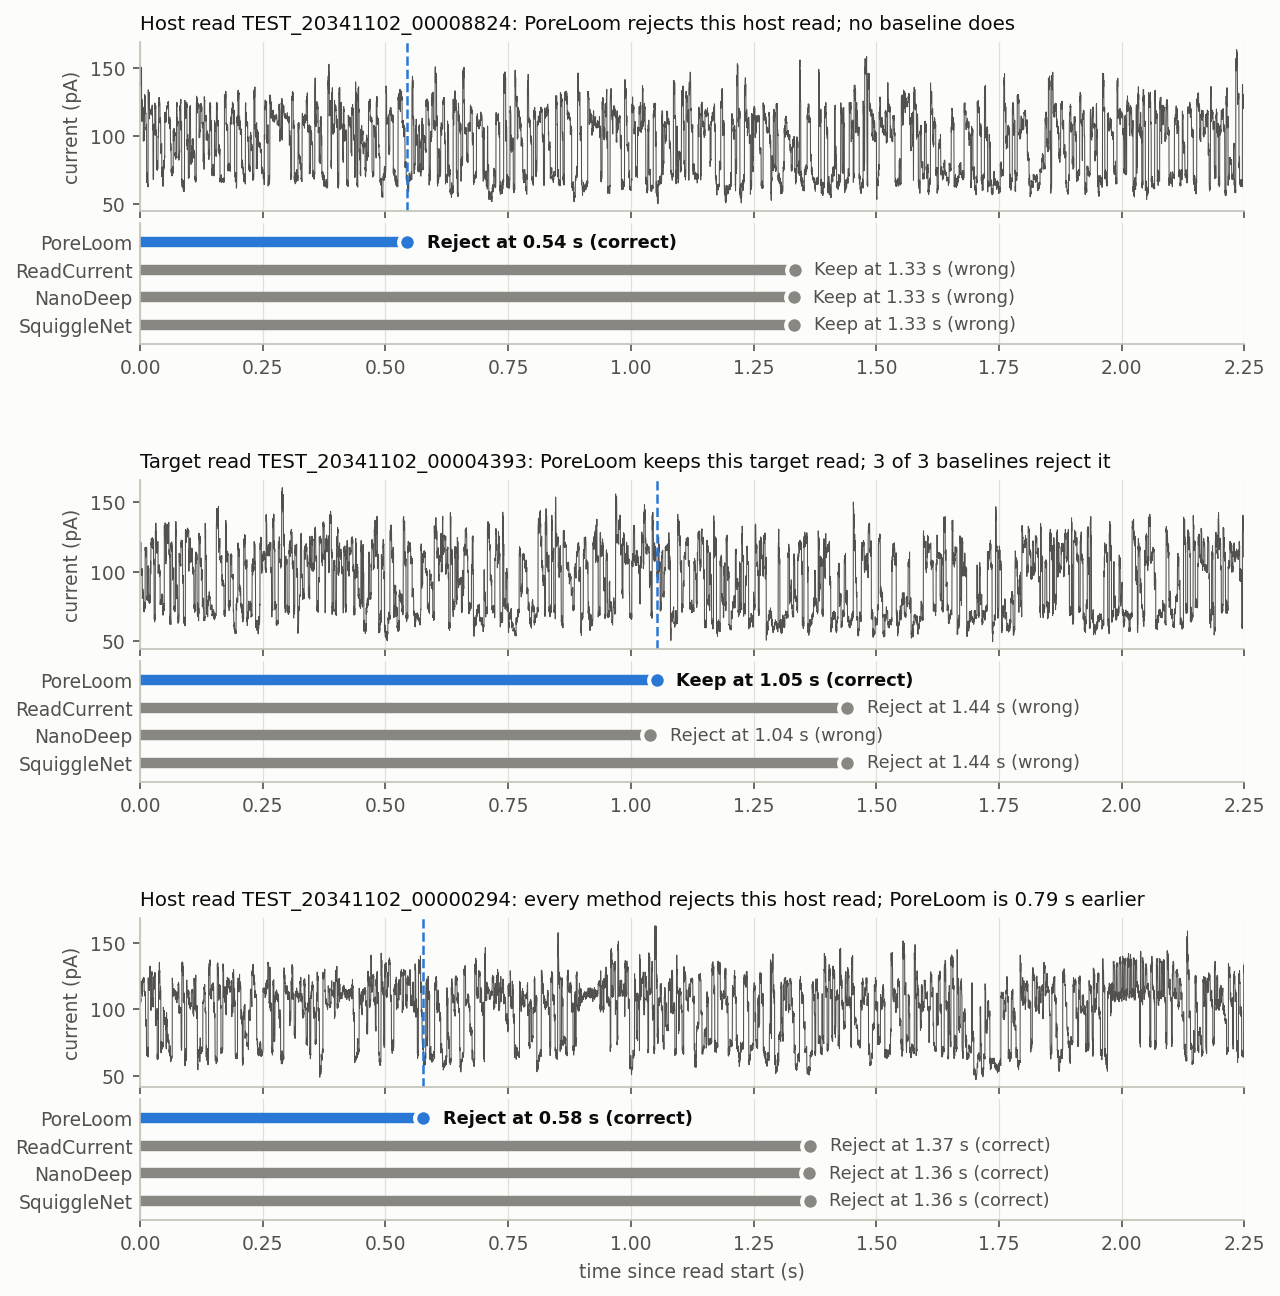
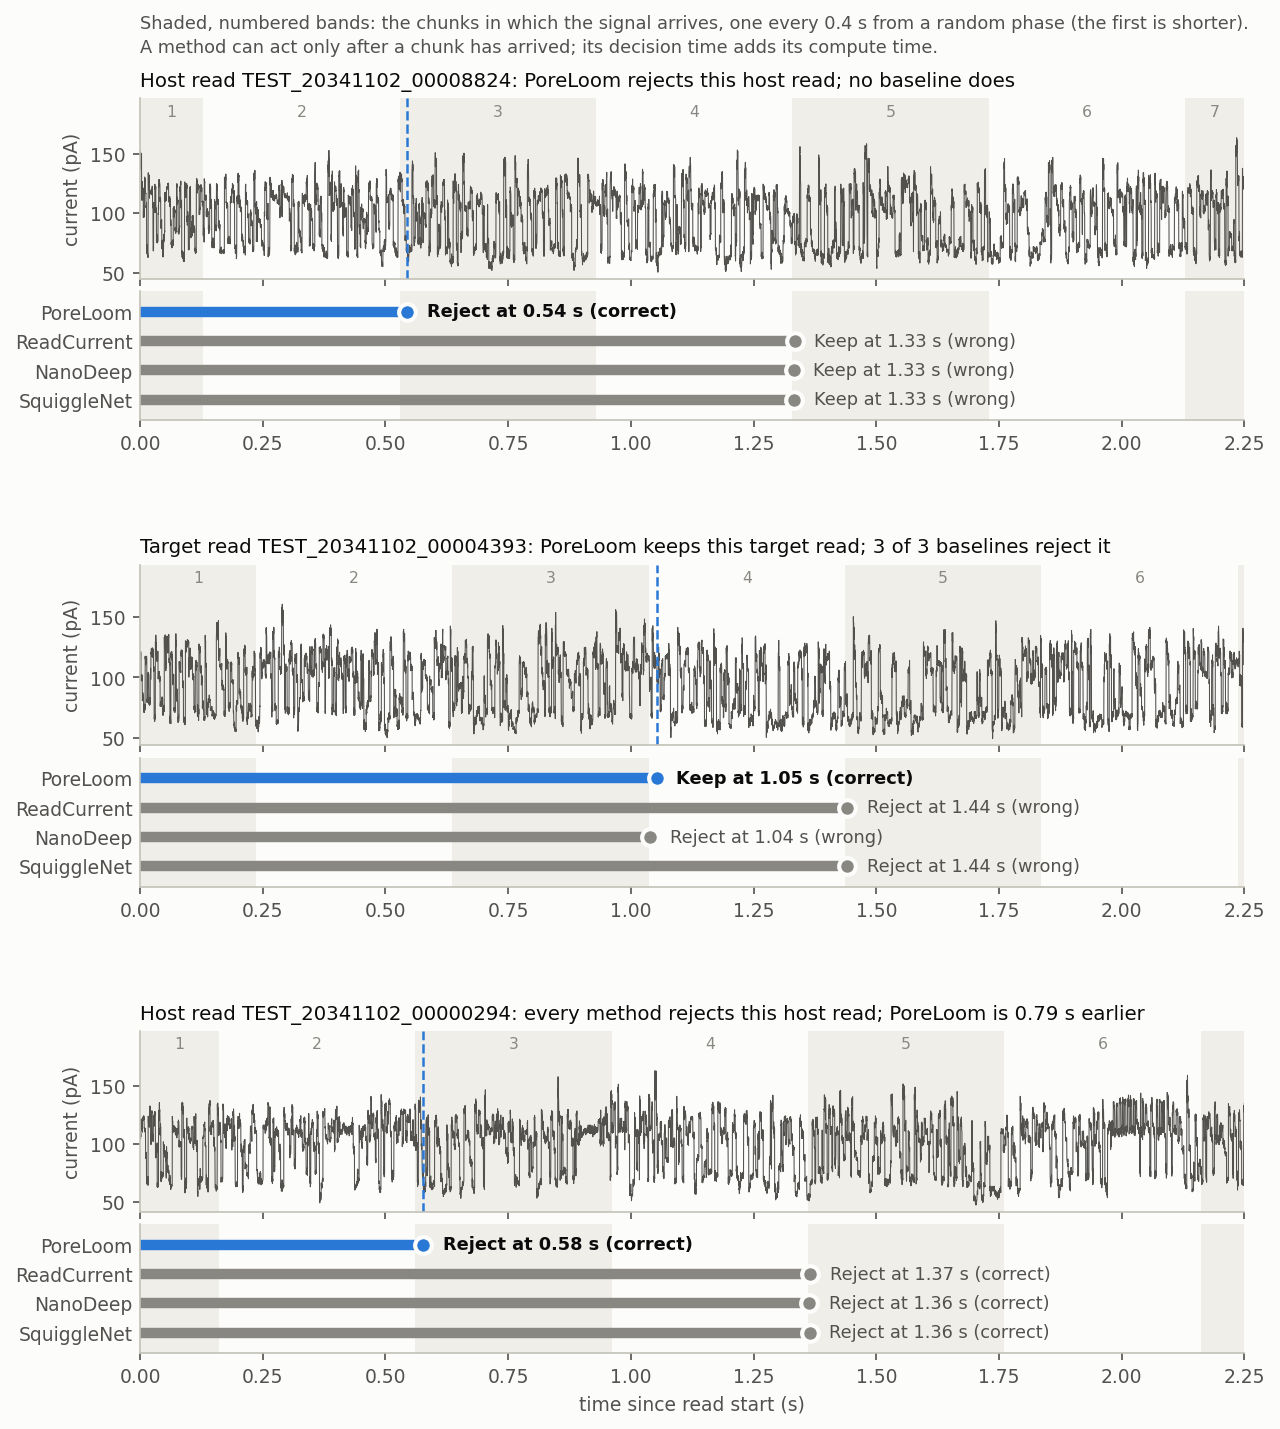
Mark the 0.4 s signal chunks in the example figure
Each example read now shows the chunks in which its signal arrives
(numbered bands from the read's replay phase), and the README explains
why NanoDeep can decide one chunk before ReadCurrent and SquiggleNet
(4000- versus 4500-sample window end).

diff --git a/example/run_example.py b/example/run_example.py
@@ -38,7 +38,8 @@ UPSTREAM = {   # third_party path: (repository, commit, sha256)
     'SquiggleNet/inference.py': ('welch-lab/SquiggleNet', 'fb7b206e05935de48895cdbd16a7c1df73515202',
[1 lines of base64/hex data omitted]
 }
-INK, INK2, MUTED, GRID, SURFACE, ACCENT = '#0b0b0b', '#52514e', '#898781', '#e1e0d9', '#fcfcfb', '#2a78d6'
+INK, INK2, MUTED, SURFACE, ACCENT = '#0b0b0b', '#52514e', '#898781', '#fcfcfb', '#2a78d6'
+BAND = '#efeee9'      # every other signal chunk
 
 
 def sha256(data):
@@ -156,7 +157,7 @@ def pick_examples(data, outcomes):
     return picks
 
 
-def plot(data, outcomes, picks, path):
+def plot(data, outcomes, picks, path, phase):
     import matplotlib
     matplotlib.use('Agg')
     import matplotlib.pyplot as plt
@@ -164,16 +165,27 @@ def plot(data, outcomes, picks, path):
                          'ytick.color': INK2, 'text.color': INK})
     end = data.adc.shape[1]/FS
     fig = plt.figure(figsize=(9.5, 3.4*len(picks)), facecolor=SURFACE)
-    outer = fig.add_gridspec(len(picks), 1, hspace=.45)
+    outer = fig.add_gridspec(len(picks), 1, hspace=.45, top=.93)
     for row, (i, title) in enumerate(picks):
         inner = outer[row].subgridspec(2, 1, height_ratios=[1.4, 1], hspace=.08)
         ax, lanes = fig.add_subplot(inner[0]), fig.add_subplot(inner[1])
+        # signal arrives in chunks ending at phase*0.4 s + k*0.4 s (the replay of every method); commands follow a chunk
+        ends = (phase[i] + np.arange(int(end/INTERVAL) + 2))*INTERVAL
+        edges = np.concatenate([[0.], ends[ends < end], [end]])
+        for k, (lo, hi) in enumerate(zip(edges[:-1], edges[1:])):
+            if k % 2 == 0:
+                for a in (ax, lanes):
+                    a.axvspan(lo, hi, color=BAND, lw=0, zorder=0)
+            if hi - lo > .1:
+                ax.text((lo + hi)/2, .97, str(k + 1), transform=ax.get_xaxis_transform(), ha='center', va='top',
+                        fontsize=7.5, color=MUTED)
         n = int(min(data.raw_length[i], data.adc.shape[1]))
         t = np.arange(n)/FS
         ax.plot(t, data.pa([i], 0, n)[0], color=INK2, lw=.5)
         if outcomes['poreloom']['command'][i]:          # where PoreLoom decided
             ax.axvline(float(outcomes['poreloom']['decision_seconds'][i]), color=ACCENT, lw=1.2, ls='--')
         ax.set_xlim(0, end); ax.set_ylabel('current (pA)')
+        low, high = ax.get_ylim(); ax.set_ylim(low, high + .22*(high - low))     # room for the chunk numbers
         ax.set_title(f'{"Target" if data.is_target[i] else "Host"} read {data.read_id[i]}: {title}', loc='left',
                      fontsize=9.5, color=INK)
         ax.tick_params(labelbottom=False)
@@ -195,10 +207,13 @@ def plot(data, outcomes, picks, path):
         lanes.set_ylim(-.7, len(METHODS) - .3); lanes.set_xlim(0, end)
         lanes.set_xlabel('time since read start (s)' if row == len(picks) - 1 else '')
         for a in (ax, lanes):
-            a.set_facecolor(SURFACE); a.grid(axis='x', color=GRID, lw=.6); a.set_axisbelow(True)
+            a.set_facecolor(SURFACE); a.set_axisbelow(True)
             for side in ('top', 'right'):
                 a.spines[side].set_visible(False)
         lanes.tick_params(axis='y', length=0)
+    fig.suptitle('Shaded, numbered bands: the chunks in which the signal arrives, one every 0.4 s from a random phase '
+                 '(the first is shorter).\nA method can act only after a chunk has arrived; its decision time adds '
+                 'its compute time.', x=.125, ha='left', va='top', y=.985, fontsize=8.5, color=INK2, linespacing=1.4)
     fig.savefig(path, dpi=150, bbox_inches='tight', facecolor=SURFACE)
     plt.close(fig)
 
@@ -250,7 +265,11 @@ def write_readme(path, results, paper, matches, picks, seconds, device):
         '## Example reads',
         '',
         'Reads where PoreLoom does better than the baselines. Each panel shows the raw signal and, for every method,',
-        'how long it observed the read before its command; the dashed line marks PoreLoom\'s decision.',
+        'how long it observed the read before its command; the dashed line marks PoreLoom\'s decision. The',
+        'shaded, numbered bands are the chunks in which the signal arrives, one every 0.4 s from a random phase',
+        '(so the first chunk is shorter); a method can act only after a chunk has arrived. ReadCurrent and',
+        'SquiggleNet need 4500 samples (1.125 s) and NanoDeep 4000 (1.000 s), so NanoDeep decides one chunk',
+        'earlier when a chunk ends between those two times.',
         '',
         '![Example reads](example_reads.png)',
         '',
@@ -312,7 +331,7 @@ def main(argv=None):
     with open(a.out/'per_read.csv', 'w', newline='') as f:
         writer = csv.DictWriter(f, fieldnames=list(rows[0]))
         writer.writeheader(); writer.writerows(rows)
-    plot(data, outcomes, picks, a.out/'example_reads.png')
+    plot(data, outcomes, picks, a.out/'example_reads.png', phase)
     write_readme(a.out/'README.md', results, paper, matches, picks, seconds, a.device)
     print(f'{"method":<12} {"accuracy":>9} {"hosts rej.":>11} {"targets rej.":>13} {"host pore s":>12}  same as paper')
     for m in METHODS:

diff --git a/example/README.md b/example/README.md
@@ -32,7 +32,11 @@ Per-read outcomes identical to the paper's: PoreLoom 1,000/1,000, ReadCurrent 1,
 ## Example reads
 
 Reads where PoreLoom does better than the baselines. Each panel shows the raw signal and, for every method,
-how long it observed the read before its command; the dashed line marks PoreLoom's decision.
+how long it observed the read before its command; the dashed line marks PoreLoom's decision. The
+shaded, numbered bands are the chunks in which the signal arrives, one every 0.4 s from a random phase
+(so the first chunk is shorter); a method can act only after a chunk has arrived. ReadCurrent and
+SquiggleNet need 4500 samples (1.125 s) and NanoDeep 4000 (1.000 s), so NanoDeep decides one chunk
+earlier when a chunk ends between those two times.
 
 ![Example reads](example_reads.png)
 
@@ -43,7 +47,7 @@ pip install -e . matplotlib
 python example/run_example.py --device cpu       # or --device cuda:0
 ```
 
-This run took 24 s on a CPU. The script downloads four upstream baseline files into
+This run took 25 s on a CPU. The script downloads four upstream baseline files into
 `third_party/` on first use (ReadCurrent `6db8921`, NanoDeep `1abba04`, SquiggleNet `fb7b206`, all MIT) and
 writes `metrics.json`, `per_read.csv`, `example_reads.png` and this `README.md` to `--out`
 (default `example/output/`). The files in this folder were written with `--out example`.
